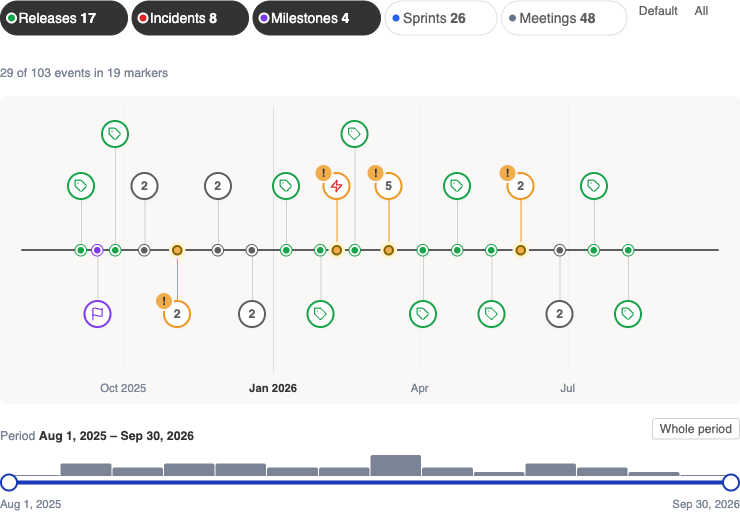
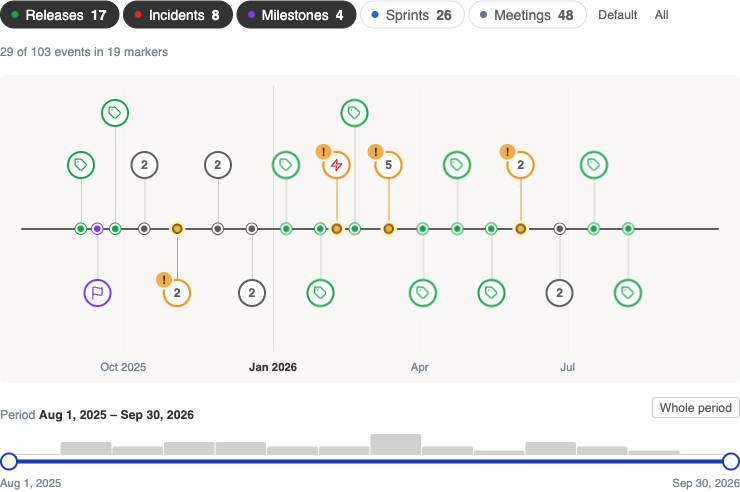
docs: record the review changes of the timeline (T-019)

diff --git a/changes/03--closed/T-019--timeline/spec.md b/changes/03--closed/T-019--timeline/spec.md
@@ -69,12 +69,15 @@ Implemented as specified, with these deviations and findings (from the plan, rem
 - **D1** `slider` gets a small hook: other scripts move its thumbs with a `hx-slider:set` event (values snapped, clamped and kept in order; `input` and `change` fire as if the user had moved them). "Whole period" uses it; nothing else in `slider` changed.
 - **D2** Tick spacing is 68 px, or 48 px and then 40 px when that gives fewer than three ticks (narrow axes); on an axis under 480 px the first label carries its year only if no January tick shows one. Without this a phone showed a single label ("2026") for a year.
 - **D3** The axis is 22rem high (not 20rem), so the far places below the axis keep clear of the tick labels at phone width.
+- **D4** After the developer's review ("not nice spacing, the labels are not centred on the same line"): the chip row is a `role="group"`, which Pico styles as a joined button group (stretched children, margin); the timeline undoes that, the chips have one height (2rem) and even padding, and "Default" and "All" sit centred on the chips' line. The density strip is lighter (neutral-200, neutral-400 in the span).
+- **D5** After the review ("a hover effect like pulse, just not pulsing; warning markers pulsing"): markers show a still ring in their colour on hover and focus; markers with a warning send out a pulsing ring (like the loading indicator's ripple) and keep a still ring when the system asks for reduced motion.
+- **D6** After the review: the canvas layout sample has a timeline page too (`/timeline`, the course of a dossier in a card, with a drawer per marker), since the first app uses `CanvasShell`.
 - **F1** `feather.replace()` doesn't reach into `<template>`: the script turns a category's Feather icon into SVG with `feather.icons[name].toSvg()`.
 - **F2** The drawer's close button is swapped out with the drawer's content, so htmx events of the close don't reach the document; while a marker is open the script follows the drawer with a `MutationObserver`, to show the marker closed again.
 - **F3** A period that began before the shown span puts its marker at the axis' start (it stuck out on the left before).
-- **F4** Checked in the browser (components sample, `AppShell`) at 1280, 390 and 360 px: no two icons overlap, no icon leaves the axis, no tick labels collide, no horizontal scroll; the units change from quarters to weeks when the span is narrowed to six weeks; chips filter and update their counts; sprints show as bars; the busiest marker (4 events) opens the drawer with its pager; Esc closes it and the focus is back on the marker, shown closed; the URL follows chips and slider, and a reload restores the view. Not checked: `CanvasShell` (its theme has the same tokens), screen readers beyond the accessible names.
+- **F4** Checked in the browser (components sample, `AppShell`) at 1280, 390 and 360 px: no two icons overlap, no icon leaves the axis, no tick labels collide, no horizontal scroll; the units change from quarters to weeks when the span is narrowed to six weeks; chips filter and update their counts; sprints show as bars; the busiest marker (4 events) opens the drawer with its pager; Esc closes it and the focus is back on the marker, shown closed; the URL follows chips and slider, and a reload restores the view. The canvas layout sample (`CanvasShell`) at 1280 and 390 px: no overlaps, no icon outside the axis, no horizontal scroll; chips and presets on one centre line in both designs; with reduced motion emulated the warning markers' ring stands still. Not checked: screen readers beyond the accessible names.
 
-Screenshots (`screenshots/`, components sample): [desktop](screenshots/timeline--desktop.png), [desktop with drawer](screenshots/timeline-drawer--desktop.png), [phone](screenshots/timeline--phone.png), [phone with drawer](screenshots/timeline-drawer--phone.png).
+Screenshots (`screenshots/`): components sample: [desktop](screenshots/timeline--desktop.png), [desktop with drawer](screenshots/timeline-drawer--desktop.png), [phone](screenshots/timeline--phone.png), [phone with drawer](screenshots/timeline-drawer--phone.png); canvas layout sample: [desktop](screenshots/canvas-timeline--desktop.png), [phone](screenshots/canvas-timeline--phone.png).
 
 Rollout: PR #65, released with the next minor release of pyhx on `versions/1`.
 
